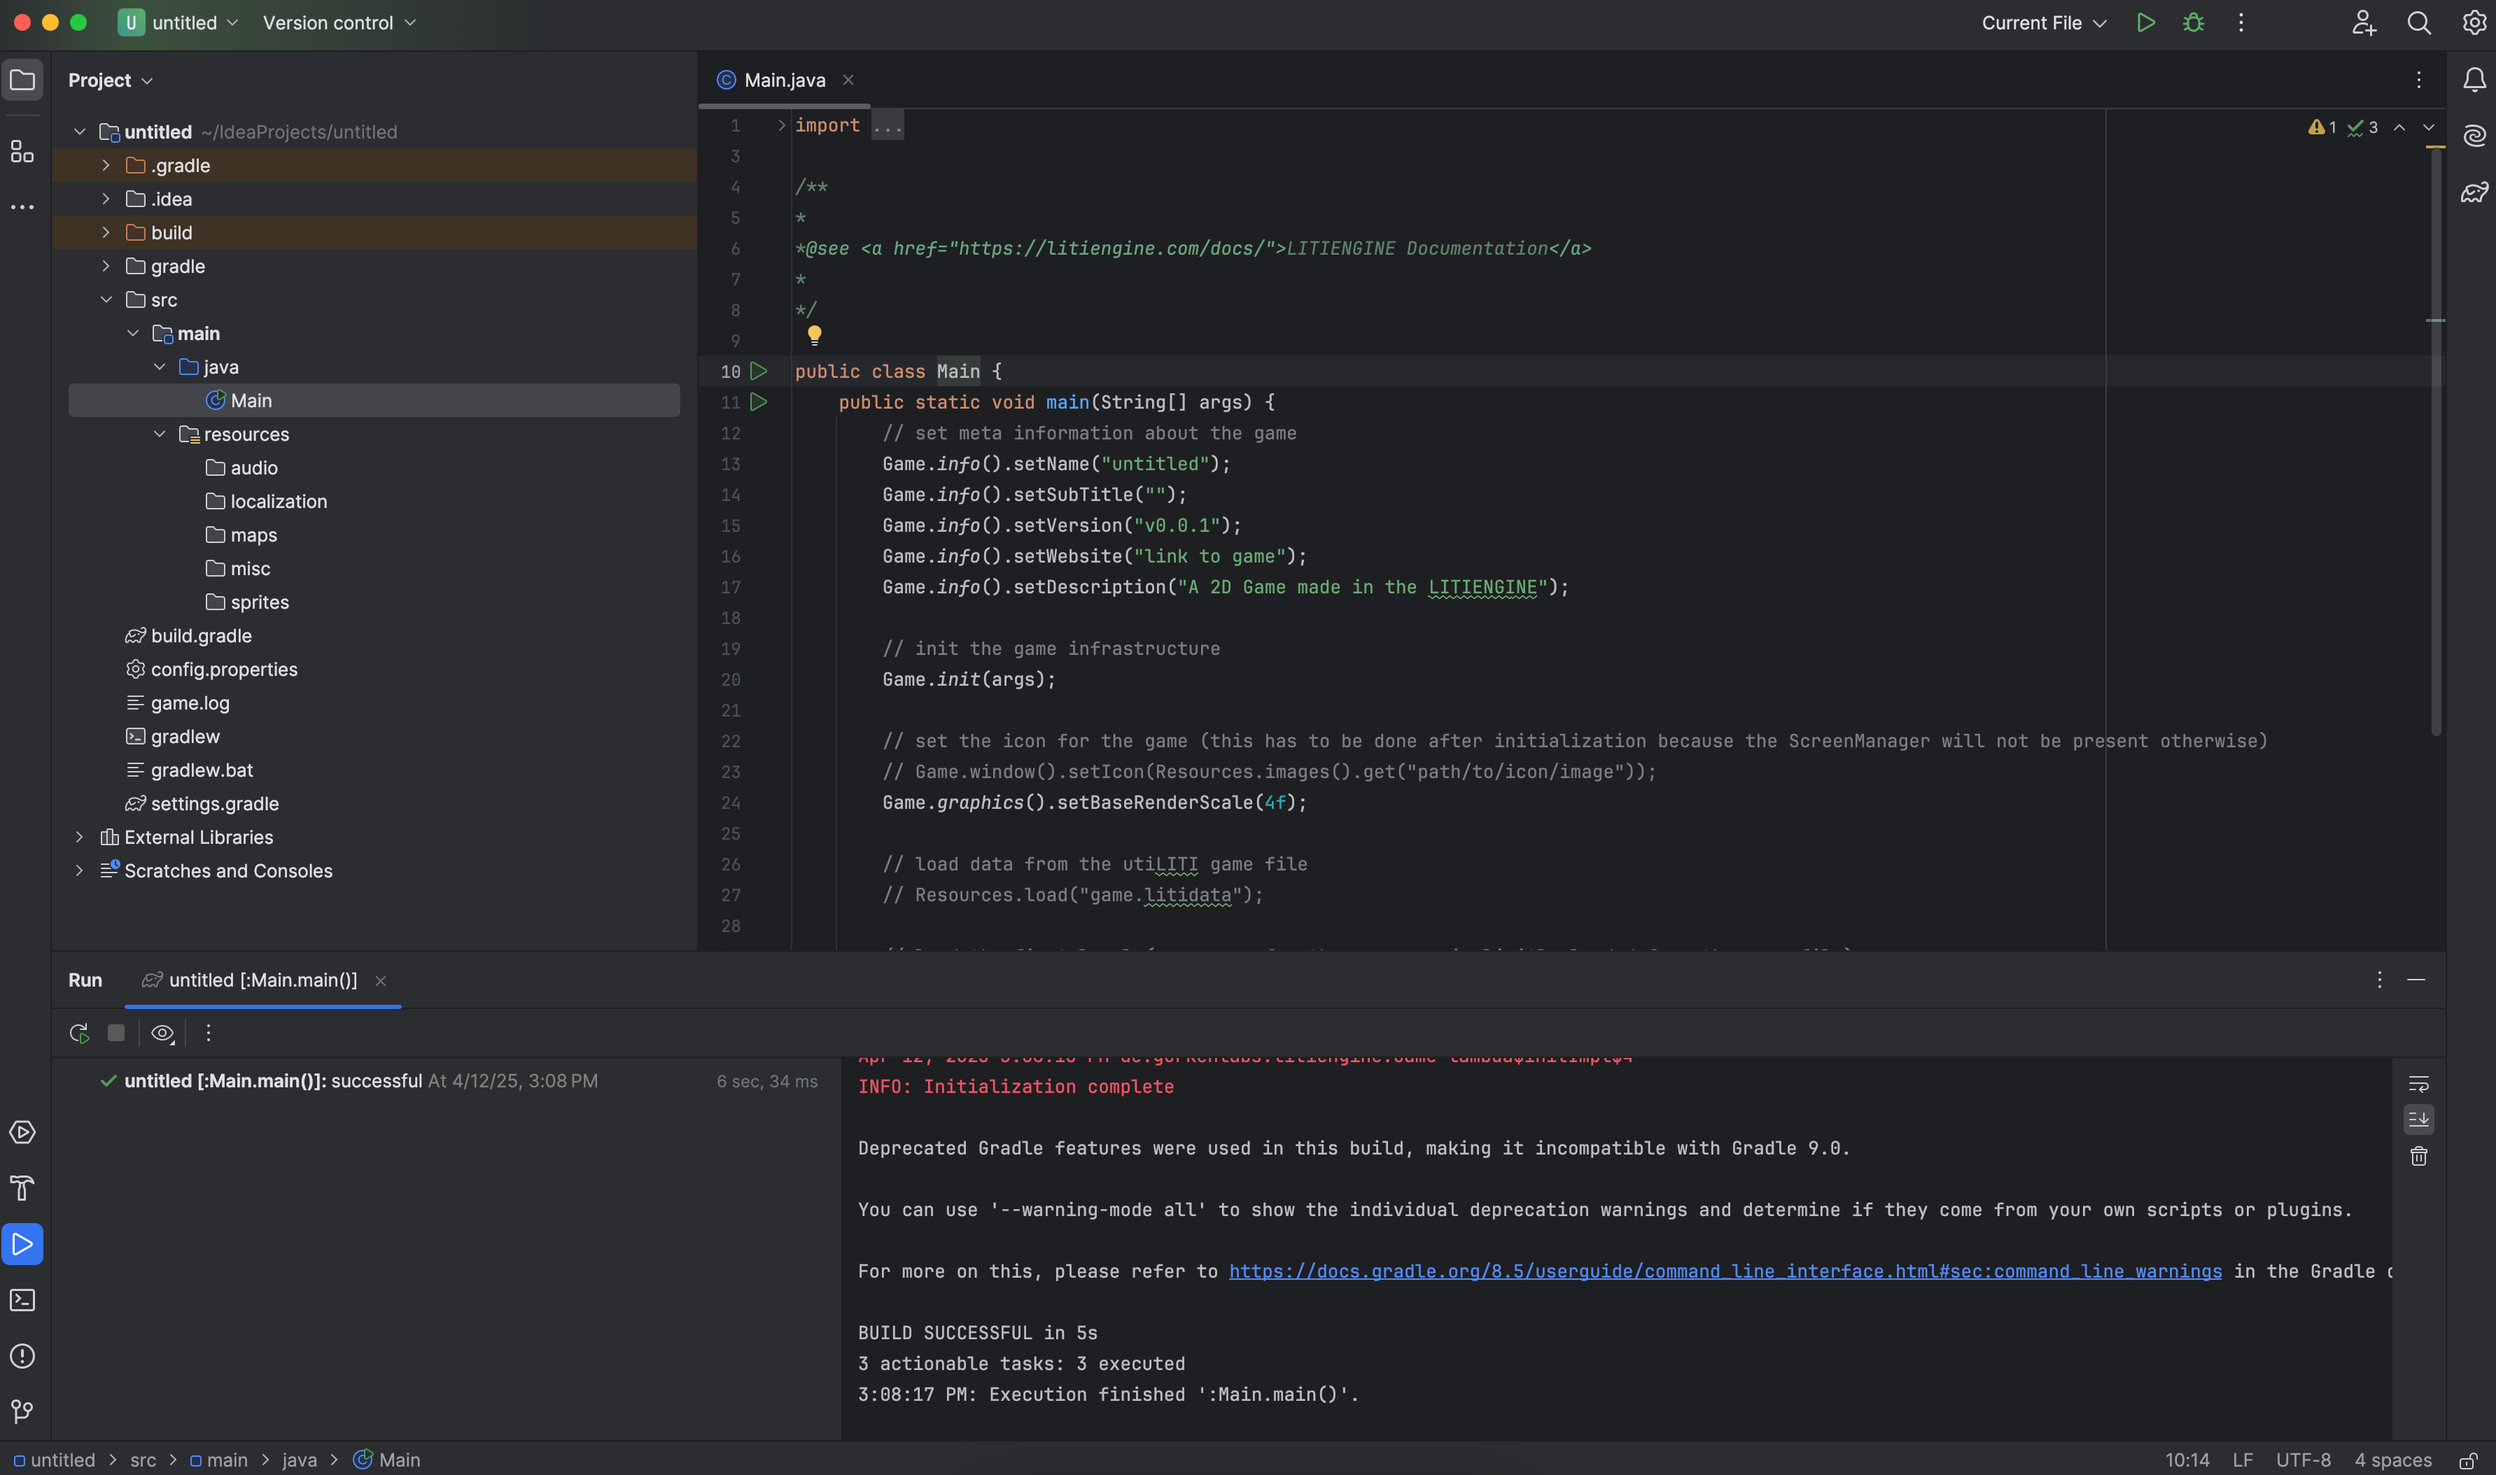
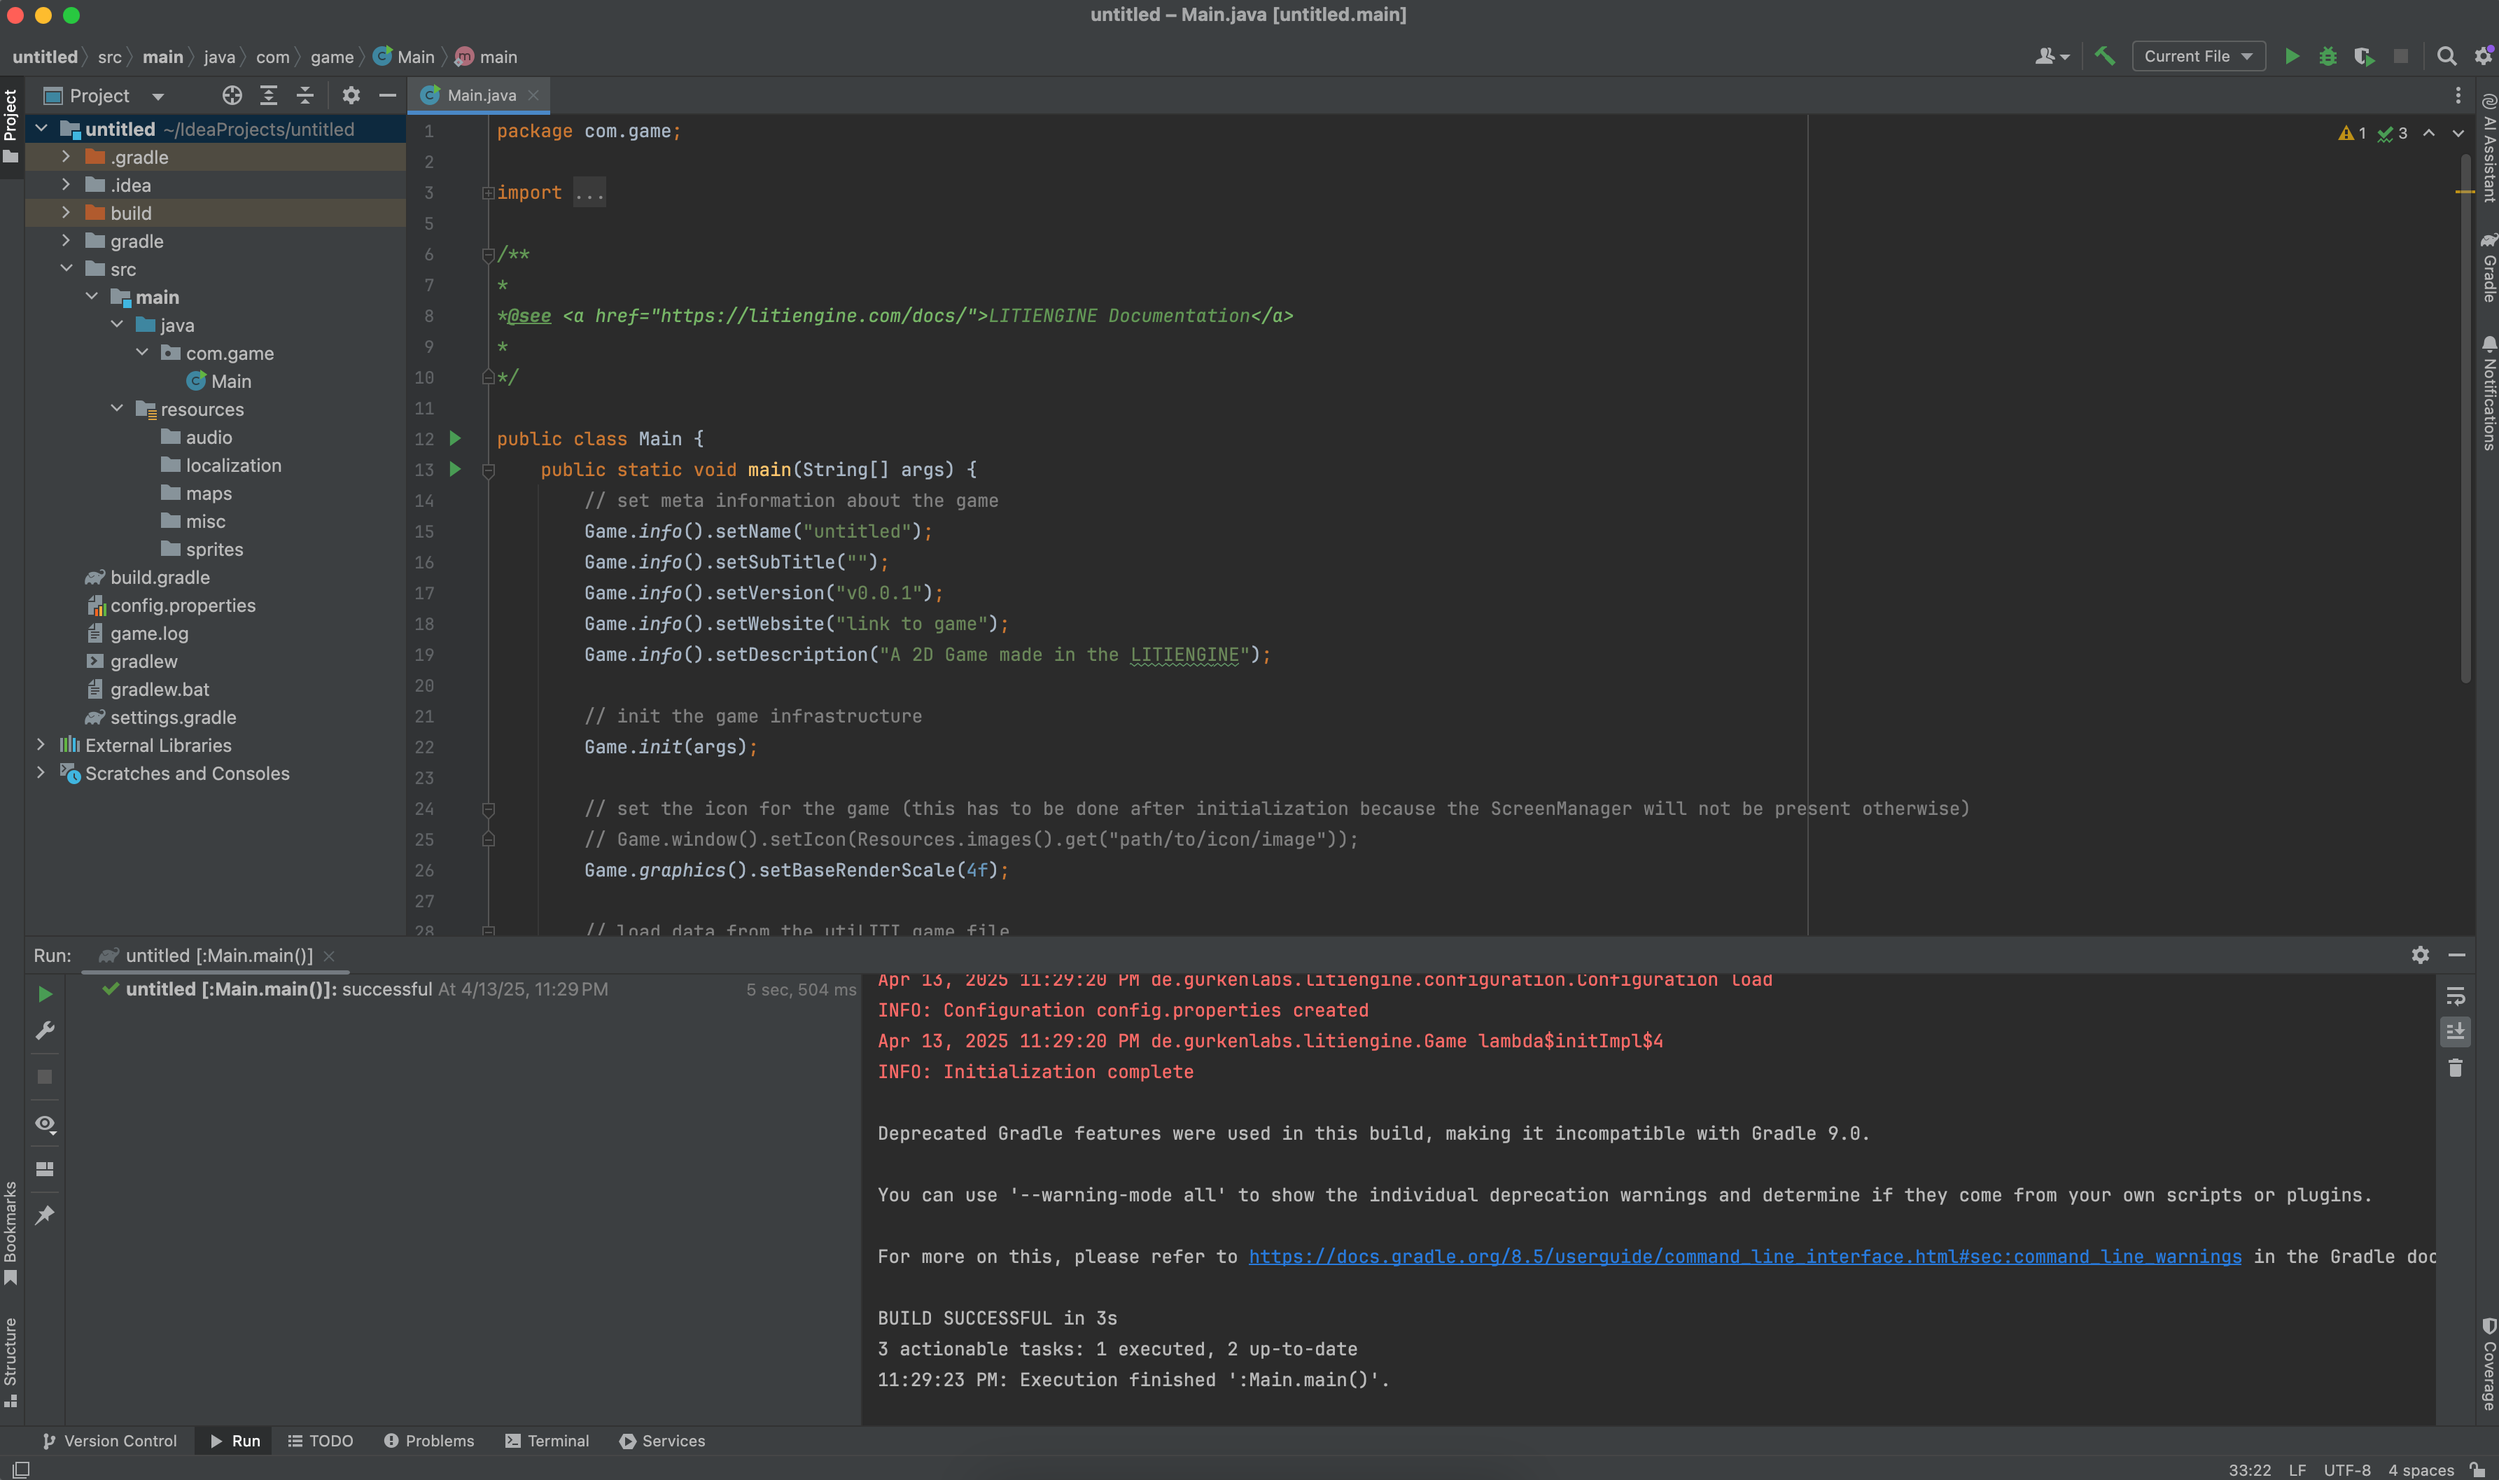
updated the README content and screenshots showcasing the new package feature

diff --git a/README.md b/README.md
@@ -38,7 +38,8 @@ new-project/
 ├── src/
 │   └── main/
 │       ├── java/
-│       │   └── Main.java
+│       │   └──com.game
+│       │   │   └── Main.java
 │       └── resources/
 │           ├── audio/
 │           ├── localization/
